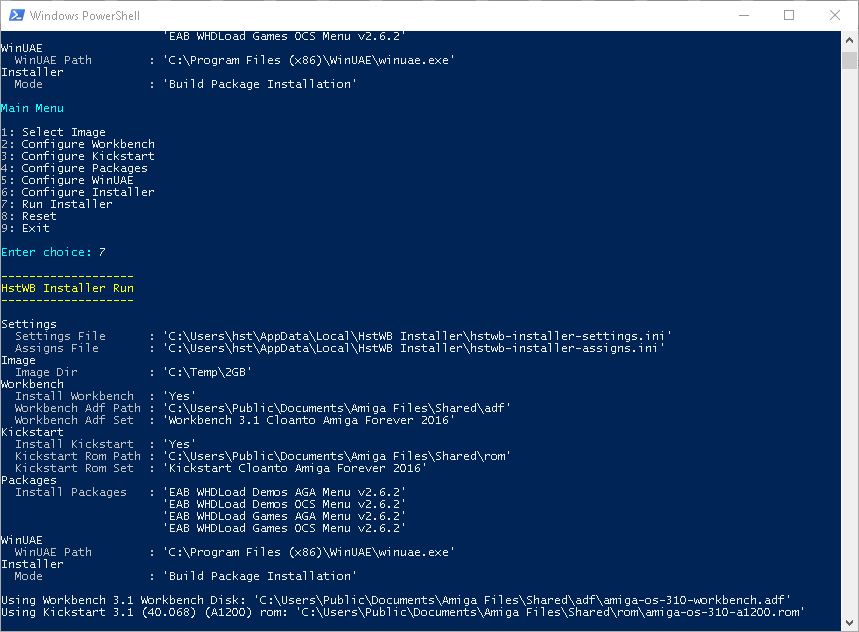
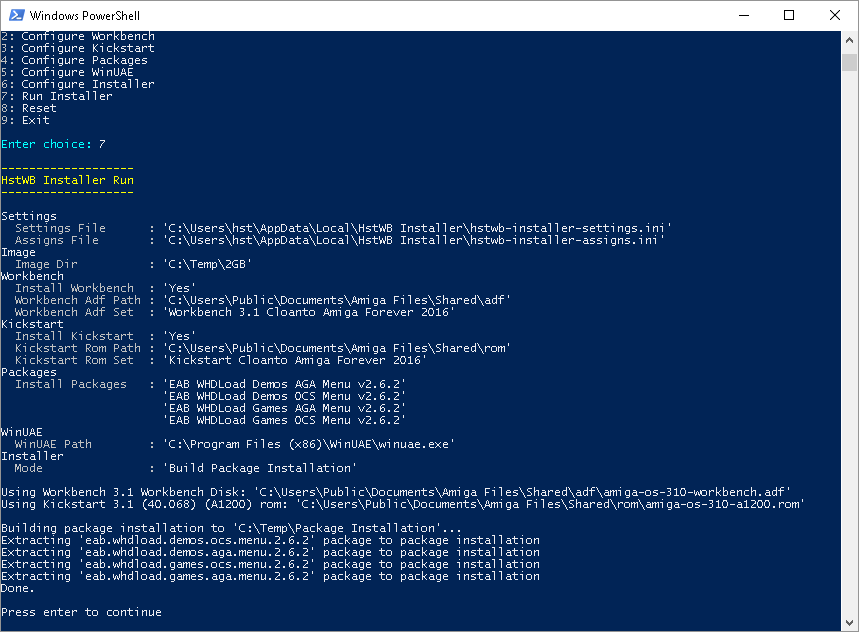
Updated readme tutorial 4 create package installation

diff --git a/README.md b/README.md
@@ -640,23 +640,53 @@ Click "Reset" to reset emulator, which will make self install detect added hardd
 
 This tutorial describes step by step how to a package installation using build package installation mode.
 
+**1. Start HstWB Installer Setup**
+
 Start HstWB Installer Setup.
 
 ![build_package_installation_1.png](screenshots/build_package_installation_1.png?raw=true)
 
+**2. Configure packages that will be installed in package installation**
+
+Type 4 and enter for configure packages menu.
+
+For this example type 7 and enter, 8 and enter, 9 and enter, 10 and enter to install packages: EAB WHDLoad Demos AGA Menu, EAB WHDLoad Demos OCS Menu, EAB WHDLoad Games AGA Menu, EAB WHDLoad Games OCS Menu.
+
+Type 12 and enter for back to main menu.
+
+*Note: Options depend on the number of packages installed in HstWB Installer "packages" directory.*
+
 ![build_package_installation_2.png](screenshots/build_package_installation_2.png?raw=true)
 
-![build_package_installation_3.png](screenshots/build_package_installation_3.png?raw=true)
+**3. Switch install mode to build package installation**
 
-![build_package_installation_4.png](screenshots/build_package_installation_4.png?raw=true)
+Type 6 and enter for configure installer menu.
 
-![build_package_installation_5.png](screenshots/build_package_installation_5.png?raw=true)
+Type 1 and enter for change installer mode.
 
-![build_package_installation_6.png](screenshots/build_package_installation_6.png?raw=true)
+Type 3 and enter for build package installation mode. 
 
-![build_package_installation_7.png](screenshots/build_package_installation_7.png?raw=true)
+Type 2 and enter for back to main menu.
 
-![build_package_installation_8.png](screenshots/build_package_installation_8.png?raw=true)
+![build_package_installation_3.png](screenshots/build_package_installation_5.png?raw=true)
+
+**4. Run installer**
+
+Type 7 end enter to start HstWB Installer Run.
+
+![build_package_installation_4.png](screenshots/build_package_installation_6.png?raw=true)
+
+**5. Select a directory for package installation**
+
+For this example create and select 'C:\Temp\Package Installation' directory.
+
+![build_package_installation_5.png](screenshots/build_package_installation_6.png?raw=true)
+
+**6. Installer done**
+
+Package installation is now ready for use either in emulator or on real Amiga.
+
+![build_package_installation_6.png](screenshots/build_package_installation_8.png?raw=true)
 
 ### Tutorial 5: Running package installation in an emulator or on real Amiga
 
